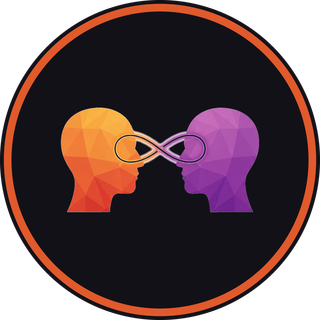
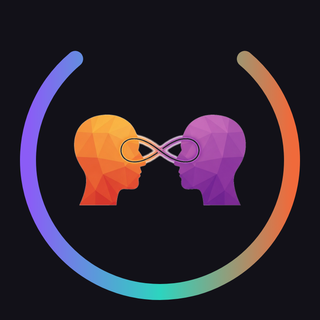
assets: new HITL badge + content-hash every image URL, hash image bytes
Swap the Human in the Loop mark to the 2026-08-04 YouTube channel-art
badge (source 800x800, resized to 320 to hold the asset test's max-dim).
Its background is exactly #121118, the show's --field token, so it sits
flush in the band with no visible square edge.

Two false-greens surfaced while shipping it, both fixed here:

1. /assets/* is `max-age=31536000, immutable` and this Cloudflare token
   has no purge permission, but only the two CSS files went through
   asset_url(). Overwriting a mark in place would never reach the edge or
   a returning visitor - verified live: cf-cache-status HIT, age 32178,
   against a file already changed on disk. All local image URLs (mark,
   cohost photo, studio badge, portrait, favicon) are now content-hashed.

2. Image bytes were not in BUILD_INPUTS, so an image-only change left the
   deploy digest identical and verify_deploy.py printed PASS against the
   PREVIOUS deploy. assets/ is now globbed into BUILD_INPUTS
   (extension-allowlisted so a .DS_Store cannot make the digest
   machine-dependent) and build_hash keys on repo-relative paths, since a
   recursive glob can collide on bare filenames.

Two regression guards added, both mutation-checked to fail when the
property is broken: test_image_bytes_are_build_inputs and
test_every_local_image_url_is_content_hashed. 40 tests, check_links 32/32,
verify_render ALL PASS.

diff --git a/index.html b/index.html
@@ -19,8 +19,8 @@
 <meta property="og:type" content="website">
 <meta name="twitter:card" content="summary_large_image">
 <meta name="twitter:image" content="https://thegrove.media/assets/og-image.png">
[1 lines of base64/hex data omitted]
-<link rel="icon" type="image/png" href="assets/thegrove-media-badge.png">
[1 lines of base64/hex data omitted]
+<link rel="icon" type="image/png" href="assets/thegrove-media-badge.png?v=755b16ef">
 <link rel="preconnect" href="https://fonts.googleapis.com">
 <link rel="preconnect" href="https://fonts.gstatic.com" crossorigin>
 <link href="https://fonts.googleapis.com/css2?family=Fraunces:ital,opsz,wght@0,9..144,400;0,9..144,500;0,9..144,600;1,9..144,400&family=Public+Sans:wght@400;500;600&family=Bree+Serif&family=Nunito+Sans:wght@400;600;700&family=Space+Grotesk:wght@400;500;600;700&family=Inter:wght@400;500;600&family=Spectral:ital,wght@0,400;0,500;0,600;1,400;1,500&display=swap" rel="stylesheet">
@@ -33,7 +33,7 @@
 <div class="page">
   <header class="masthead">
     <div class="masthead-inner">
-      <img class="badge" src="assets/thegrove-media-badge.png" alt="TheGrove Studio badge" width="84" height="84" loading="eager">
+      <img class="badge" src="assets/thegrove-media-badge.png?v=755b16ef" alt="TheGrove Studio badge" width="84" height="84" loading="eager">
       <h1 class="wordmark">TheGrove Studio</h1>
       <p class="studio-tagline">The best stories are never about the big thing, but the human moment inside it.</p>
       <nav class="masthead-nav" aria-label="Shows on this page">
@@ -64,7 +64,7 @@
           <div class="chapter-grid">
             <div class="chapter-main">
               <label for="disc-the-quill" class="opener">
-                <span class="mark-wrap" aria-hidden="true"><img class="mark" src="assets/marks/quill-circle.png" alt="" width="116" height="116" loading="lazy"></span>
+                <span class="mark-wrap" aria-hidden="true"><img class="mark" src="assets/marks/quill-circle.png?v=d57b4d7e" alt="" width="116" height="116" loading="lazy"></span>
                 <span class="eyebrow">Produced by TheGrove Studio</span>
                 <span class="opener-text">
                   <span class="tile-name" role="heading" aria-level="2">The Quill</span>
@@ -102,7 +102,7 @@
           <div class="chapter-grid">
             <div class="chapter-main">
               <label for="disc-the-little-feather" class="opener">
-                <span class="mark-wrap" aria-hidden="true"><img class="mark" src="assets/marks/tlf-asis.png" alt="" width="116" height="116" loading="lazy"></span>
+                <span class="mark-wrap" aria-hidden="true"><img class="mark" src="assets/marks/tlf-asis.png?v=3688c154" alt="" width="116" height="116" loading="lazy"></span>
                 <span class="eyebrow">Produced by TheGrove Studio</span>
                 <span class="opener-text">
                   <span class="tile-name" role="heading" aria-level="2">The Little Feather</span>
@@ -139,7 +139,7 @@
           <div class="chapter-grid">
             <div class="chapter-main">
               <label for="disc-human-in-the-loop" class="opener">
-                <span class="mark-wrap" aria-hidden="true"><img class="mark" src="assets/marks/hitl-circle.png" alt="" width="116" height="116" loading="lazy"></span>
+                <span class="mark-wrap" aria-hidden="true"><img class="mark" src="assets/marks/hitl-circle.png?v=dd7a7f67" alt="" width="116" height="116" loading="lazy"></span>
                 <span class="eyebrow">Produced by TheGrove Studio</span>
                 <span class="opener-text">
                   <span class="tile-name" role="heading" aria-level="2">Human in the Loop</span>
@@ -150,7 +150,7 @@
               <div class="panel">
                 <div class="lead-lines"><p>Two ex-Microsoft builders.</p>
 <p>One real AI lesson.</p>
-<p>Live every Wednesday.</p></div><p class="chapter-blurb">Echo is the agent. Chris Shanku and Sash Mohapatra are the humans. Every Wednesday, Chris and Sash spend 25 minutes live-demoing real AI tools from their own systems. You see what works and what breaks. Echo does the rest. That&#x27;s Human in the Loop.</p><div class="cohost-credit"><img class="cohost-photo" src="assets/sash-photo.jpg" alt="Photo of Sash Mohapatra" width="32" height="32" loading="lazy"><p>Co-hosted with <a href="https://buildwithsash.com" target="_blank" rel="noopener noreferrer">Sash Mohapatra</a></p></div>
+<p>Live every Wednesday.</p></div><p class="chapter-blurb">Echo is the agent. Chris Shanku and Sash Mohapatra are the humans. Every Wednesday, Chris and Sash spend 25 minutes live-demoing real AI tools from their own systems. You see what works and what breaks. Echo does the rest. That&#x27;s Human in the Loop.</p><div class="cohost-credit"><img class="cohost-photo" src="assets/sash-photo.jpg?v=d83653c8" alt="Photo of Sash Mohapatra" width="32" height="32" loading="lazy"><p>Co-hosted with <a href="https://buildwithsash.com" target="_blank" rel="noopener noreferrer">Sash Mohapatra</a></p></div>
               </div>
             </div>
             <aside class="sidebar" aria-label="Human in the Loop - schedule and links">
@@ -186,7 +186,7 @@
         <div class="colophon small" aria-hidden="true"><span class="rule"></span><span class="dot"></span><span class="rule"></span></div>
         <p class="wordmark small">TheGrove Studio</p>
         <h2 class="sr-only">About TheGrove Studio</h2>
-        <img class="portrait" src="assets/chris-shanku.webp" alt="Portrait of Chris Shanku" width="128" height="128" loading="lazy">
+        <img class="portrait" src="assets/chris-shanku.webp?v=21ef5cb2" alt="Portrait of Chris Shanku" width="128" height="128" loading="lazy">
         <p class="about-copy">I&#x27;m Chris Shanku. I build real systems for a living and tell true stories on stage - I won a Moth StorySLAM with <a href="https://youtu.be/2Lj3Ujrk2Ys" target="_blank" rel="noopener noreferrer">this one</a>. Technology is best when it enables human connection - period. TheGrove Studio is the home of Human in the Loop, The Quill, and The Little Feather, a project of TheGrove AI, LLC. More about me at <a href="https://shanku.net" target="_blank" rel="noopener noreferrer">shanku.net</a>, more about the company at <a href="https://thegrove.llc" target="_blank" rel="noopener noreferrer">thegrove.llc</a>.</p>
       </div>
     </section>

diff --git a/scripts/render.py b/scripts/render.py
@@ -28,13 +28,31 @@ BUILD_INPUTS = [
     ROOT / "css" / "tokens.css",
     ROOT / "css" / "site.css",
     Path(__file__).resolve(),
+    # Image bytes are build inputs too. Without them, swapping a mark or photo
+    # leaves the digest unchanged, so verify_deploy.py prints PASS against the
+    # PREVIOUS deploy - the same false-green class the sprint review caught when
+    # the digest covered channels.json alone. Proved 2026-08-05: a new
+    # hitl-circle.png on disk produced a byte-identical local and live hash.
+    # Sorted for a deterministic digest; `rglob` so a new asset is covered the
+    # day it lands rather than the day someone remembers to list it here.
+    # Extension-allowlisted on purpose: a bare `*.*` would sweep in a
+    # Finder-created .DS_Store and make the digest machine-dependent, which
+    # fails the deploy gate for a reason that has nothing to do with the deploy.
+    *sorted(
+        p for p in (ROOT / "assets").rglob("*")
+        if p.is_file()
+        and not p.name.startswith(".")
+        and p.suffix.lower() in {".png", ".jpg", ".jpeg", ".webp", ".svg", ".ico"}
+    ),
 ]
 
 
 def build_hash():
     h = hashlib.sha256()
     for path in BUILD_INPUTS:
-        h.update(path.name.encode("utf-8"))
+        # Repo-relative path, not bare name: assets/ is now globbed recursively,
+        # so two inputs can share a filename across directories.
+        h.update(path.relative_to(ROOT).as_posix().encode("utf-8"))
         h.update(b"\0")
         h.update(path.read_bytes())
         h.update(b"\0")
@@ -48,6 +66,12 @@ def asset_url(rel_path):
     permission, so an unversioned stylesheet URL means a CSS change does not
     reach the edge or returning visitors for a day. Hashing the URL makes every
     edit a new URL, which turns the long TTL from a trap into a benefit.
+
+    Images need this MORE than CSS, not less: /assets/* is
+    `max-age=31536000, immutable`, so an unversioned image URL means a swapped
+    mark or photo never reaches a returning visitor or the edge at all. Proved
+    live 2026-08-05 on assets/marks/hitl-circle.png - cf-cache-status HIT,
+    age 32178, against a file that had already changed on disk.
     """
     digest = hashlib.sha256((ROOT / rel_path).read_bytes()).hexdigest()[:8]
     return f"{rel_path}?v={digest}"
@@ -183,7 +207,7 @@ def render_show(show, icons, studio_name):
         c = show["cohost"]
         cohost_html = (
             '<div class="cohost-credit">'
-            f'<img class="cohost-photo" src="{esc(c["photo"])}" alt="Photo of {esc(c["name"])}" '
+            f'<img class="cohost-photo" src="{esc(asset_url(c["photo"]))}" alt="Photo of {esc(c["name"])}" '
             'width="32" height="32" loading="lazy">'
             f'<p>Co-hosted with <a href="{esc(c["url"])}" target="_blank" '
             f'rel="noopener noreferrer">{esc(c["name"])}</a></p></div>'
@@ -235,7 +259,7 @@ def render_show(show, icons, studio_name):
           <div class="chapter-grid">
             <div class="chapter-main">
               <label for="disc-{show_id}" class="opener">
-                <span class="mark-wrap" aria-hidden="true"><img class="mark" src="{esc(show["mark"])}" alt="" width="116" height="116" loading="lazy"></span>
+                <span class="mark-wrap" aria-hidden="true"><img class="mark" src="{esc(asset_url(show["mark"]))}" alt="" width="116" height="116" loading="lazy"></span>
                 <span class="eyebrow">{esc(eyebrow)}</span>
                 <span class="opener-text">
                   <span class="tile-name" role="heading" aria-level="2">{esc(show["name"])}</span>
@@ -282,7 +306,7 @@ PAGE_HEAD = '''<!doctype html>
 <meta name="twitter:card" content="summary_large_image">
 <meta name="twitter:image" content="https://thegrove.media/assets/og-image.png">
 <meta name="x-thegrove-media-source-sha256" content="{source_hash}">
-<link rel="icon" type="image/png" href="assets/thegrove-media-badge.png">
+<link rel="icon" type="image/png" href="{favicon_href}">
 <link rel="preconnect" href="https://fonts.googleapis.com">
 <link rel="preconnect" href="https://fonts.gstatic.com" crossorigin>
 <link href="https://fonts.googleapis.com/css2?family=Fraunces:ital,opsz,wght@0,9..144,400;0,9..144,500;0,9..144,600;1,9..144,400&family=Public+Sans:wght@400;500;600&family=Bree+Serif&family=Nunito+Sans:wght@400;600;700&family=Space+Grotesk:wght@400;500;600;700&family=Inter:wght@400;500;600&family=Spectral:ital,wght@0,400;0,500;0,600;1,400;1,500&display=swap" rel="stylesheet">
@@ -315,7 +339,7 @@ def render_masthead(studio, shows):
     ) + '<a href="#about">About</a>'
     return f'''  <header class="masthead">
     <div class="masthead-inner">
-      <img class="badge" src="{esc(studio["badge"])}" alt="{esc(studio["name"])} badge" width="84" height="84" loading="eager">
+      <img class="badge" src="{esc(asset_url(studio["badge"]))}" alt="{esc(studio["name"])} badge" width="84" height="84" loading="eager">
       <h1 class="wordmark">{esc(studio["name"])}</h1>
       <p class="studio-tagline">{esc(studio["tagline"])}</p>
       <nav class="masthead-nav" aria-label="Shows on this page">
@@ -349,7 +373,7 @@ def render_about(studio):
         <div class="colophon small" aria-hidden="true"><span class="rule"></span><span class="dot"></span><span class="rule"></span></div>
         <p class="wordmark small">{esc(studio["name"])}</p>
         <h2 class="sr-only">About {esc(studio["name"])}</h2>
-        <img class="portrait" src="{esc(studio["portrait"])}" alt="Portrait of Chris Shanku" width="128" height="128" loading="lazy">
+        <img class="portrait" src="{esc(asset_url(studio["portrait"]))}" alt="Portrait of Chris Shanku" width="128" height="128" loading="lazy">
         <p class="about-copy">{about_html}</p>
       </div>
     </section>'''
@@ -367,6 +391,7 @@ def render_page(channels, icons):
         show_list=esc(show_list),
         tokens_href=asset_url("css/tokens.css"),
         site_href=asset_url("css/site.css"),
+        favicon_href=asset_url("assets/thegrove-media-badge.png"),
     )]
     parts.append(f'<a class="skip-link" href="#{shows[0]["id"]}">Skip to shows</a>')
     parts.append('<div class="page">')

diff --git a/scripts/tests/test_assets.py b/scripts/tests/test_assets.py
@@ -1,8 +1,14 @@
+import json
+import re
 import unittest
 from pathlib import Path
 from PIL import Image
 
+from scripts.render import build_hash, render_page
+
 ROOT = Path(__file__).resolve().parent.parent.parent
+CHANNELS = json.loads((ROOT / "content" / "channels.json").read_text())
+ICONS = json.loads((ROOT / "content" / "icons.json").read_text())
 
 EXPECTED = {
     "assets/thegrove-media-badge.png": 320,
@@ -27,6 +33,42 @@ class TestAssets(unittest.TestCase):
                 continue
             with Image.open(ROOT / rel) as img:
                 self.assertLessEqual(max(img.size), max_dim, rel)
+
+    def test_image_bytes_are_build_inputs(self):
+        # An image-only change MUST move the deploy digest. When it did not,
+        # verify_deploy.py printed "PASS: live content matches local source"
+        # against the PREVIOUS deploy - a false green that would have shipped a
+        # stale mark. Same class the sprint review caught on channels.json.
+        before = build_hash()
+        target = ROOT / "assets" / "marks" / "hitl-circle.png"
+        original = target.read_bytes()
+        try:
+            target.write_bytes(original + b"\0")
+            self.assertNotEqual(
+                before, build_hash(),
+                "swapping image bytes left the deploy digest unchanged - "
+                "verify_deploy.py would false-green against the old deploy",
+            )
+        finally:
+            target.write_bytes(original)
+        self.assertEqual(before, build_hash(), "digest not restored")
+
+    def test_every_local_image_url_is_content_hashed(self):
+        # /assets/* is `max-age=31536000, immutable` and this Cloudflare token
+        # has no purge permission, so an unversioned image URL means a swapped
+        # file never reaches a returning visitor or the edge. Proved live
+        # 2026-08-05: cf-cache-status HIT, age 32178, on an already-changed file.
+        out = render_page(CHANNELS, ICONS)
+        local = [
+            src for src in re.findall(r'(?:src|href)="([^"]+)"', out)
+            if src.startswith("assets/")
+        ]
+        self.assertTrue(local, "found no local asset URLs - selector is wrong")
+        for src in local:
+            self.assertRegex(
+                src, r"\?v=[0-9a-f]{8}$",
+                f"{src} is not content-hashed; an edit to it cannot reach the edge",
+            )
 
 
 if __name__ == "__main__":
